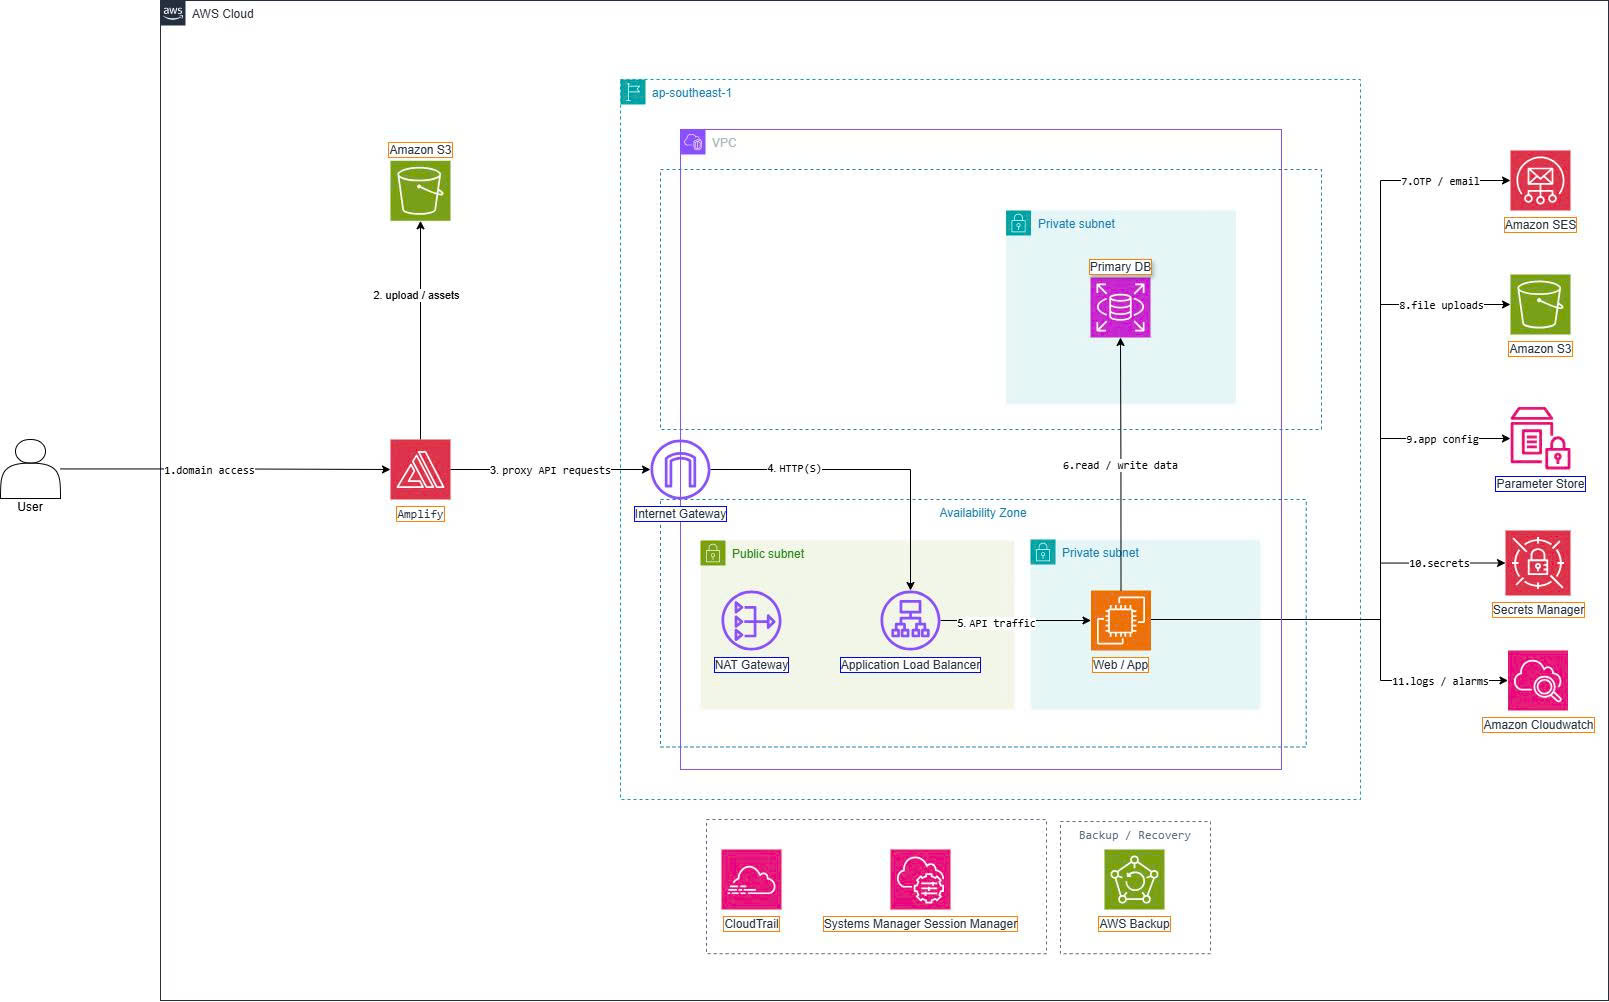
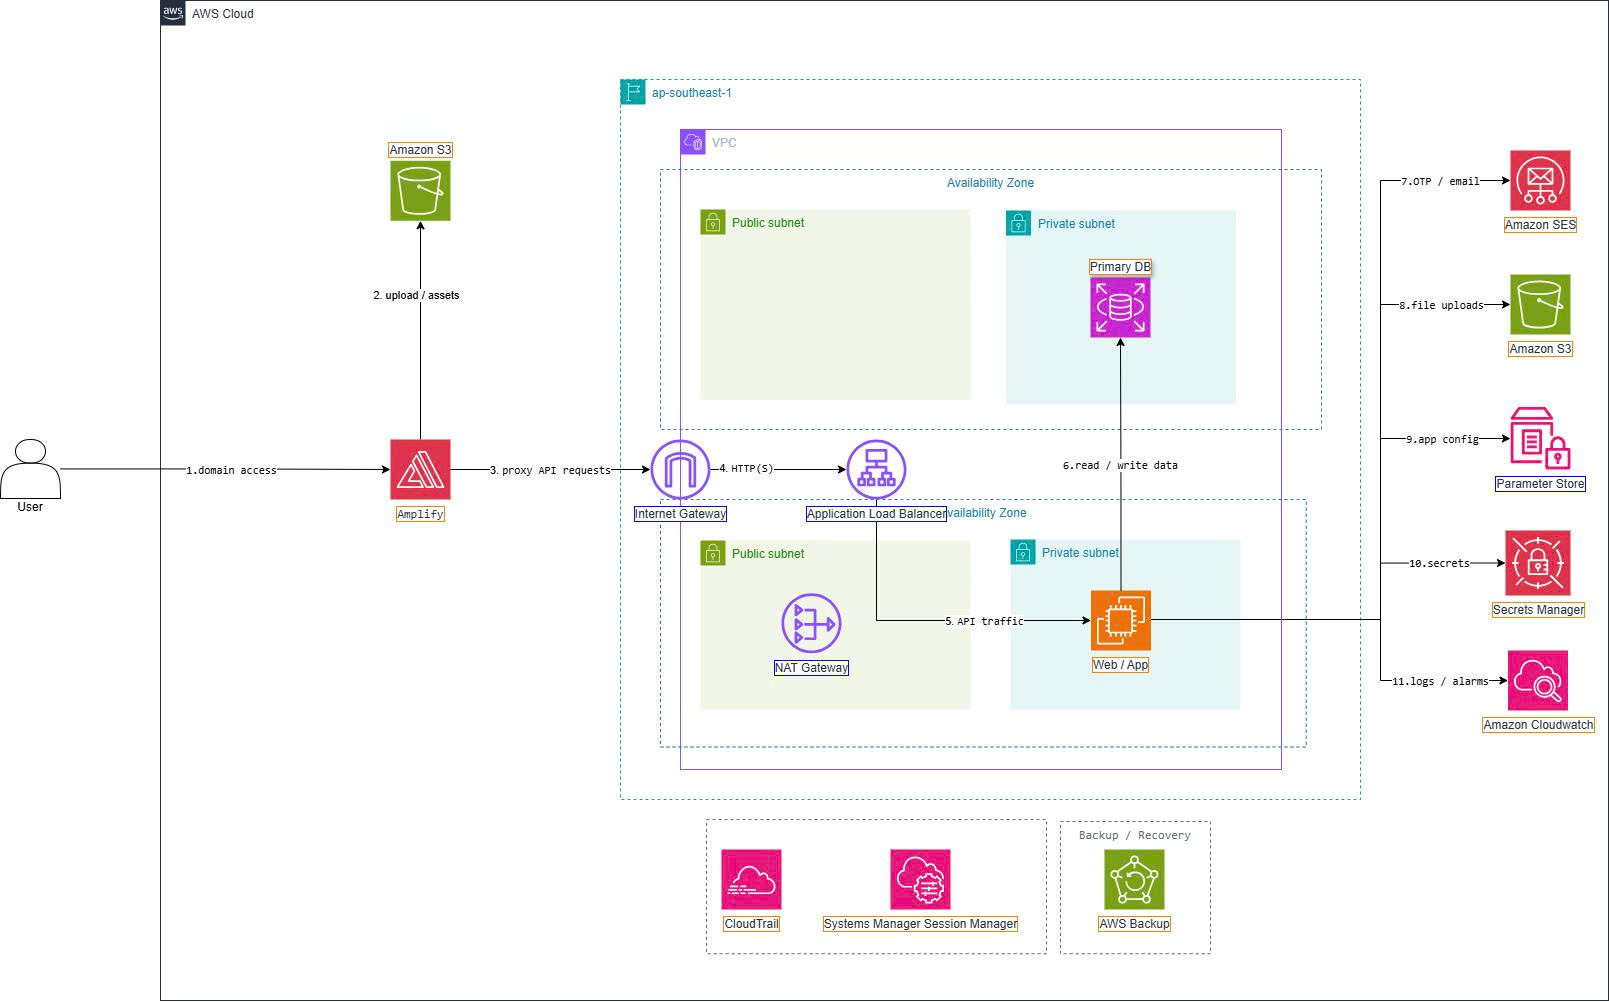
Fix workshop image ordering

diff --git a/content/5-Workshop/5.5-Frontend-Amplify/_index.md b/content/5-Workshop/5.5-Frontend-Amplify/_index.md
@@ -113,9 +113,9 @@ applications:
           - '**/*'
 ```
 
-![Amplify build settings](/eam-workshop-report/images/5-Workshop/5.5-Frontend-Amplify/5.5.6-amplify-build-settings.png)
+![Amplify build settings](/eam-workshop-report/images/5-Workshop/5.5-Frontend-Amplify/5.5.5-amplify-build-settings.png)
 
-*Figure 5.5.6. Amplify build settings with app root and output directory.*
+*Figure 5.5.5. Amplify build settings with app root and output directory.*
 
 On the build settings screen, verify that `appRoot` is `frontend`, the build command is `npm ci && npm run build`, and the output directory is `dist`.
 
@@ -139,15 +139,15 @@ npm ci && npm run build
 dist
 ```
 
-![Amplify app connected to the aws-architecture branch](/eam-workshop-report/images/5-Workshop/5.5-Frontend-Amplify/5.5.5-amplify-branch.png)
+![Amplify app connected to the aws-architecture branch](/eam-workshop-report/images/5-Workshop/5.5-Frontend-Amplify/5.5.6-amplify-branch.png)
 
-*Figure 5.5.5. Amplify app connected to the deployment branch.*
+*Figure 5.5.6. Amplify app connected to the deployment branch.*
 
 On the Amplify app screen, verify that the deployment branch is the branch that contains the latest frontend source. Amplify will automatically build and publish the frontend from this branch.
 
-![Successful Amplify deployment](/eam-workshop-report/images/5-Workshop/5.5-Frontend-Amplify/5.5.8-amplify-build-success.png)
+![Successful Amplify deployment](/eam-workshop-report/images/5-Workshop/5.5-Frontend-Amplify/5.5.7-amplify-build-success.png)
 
-*Figure 5.5.8. Successful Amplify deployment.*
+*Figure 5.5.7. Successful Amplify deployment.*
 
 When the deployment status is `Deployed`, the frontend has been built and published successfully on the Amplify domain. This is required before testing the UI and API rewrite.
 
@@ -184,9 +184,9 @@ Then keep the SPA fallback rule for React Router:
 
 If the `/api/<*>` or `/uploads/<*>` rule is in the wrong order, API and upload requests may return frontend HTML or static assets may fail with MIME type errors.
 
-![Amplify rewrite rules](/eam-workshop-report/images/5-Workshop/5.5-Frontend-Amplify/5.5.7-amplify-rewrite-rules.png)
+![Amplify rewrite rules](/eam-workshop-report/images/5-Workshop/5.5-Frontend-Amplify/5.5.8-amplify-rewrite-rules.png)
 
-*Figure 5.5.7. Amplify rewrite rules forwarding `/api/<*>` and `/uploads/<*>` to API Gateway.*
+*Figure 5.5.8. Amplify rewrite rules forwarding `/api/<*>` and `/uploads/<*>` to API Gateway.*
 
 The `/api/<*>` and `/uploads/<*>` rules should stay above the `/index.html` fallback. This order ensures API and upload requests go to API Gateway instead of being handled as frontend routes.
 

diff --git a/content/5-Workshop/5.5-Frontend-Amplify/_index.vi.md b/content/5-Workshop/5.5-Frontend-Amplify/_index.vi.md
@@ -114,9 +114,9 @@ applications:
           - '**/*'
 ```
 
-![Build settings của Amplify](/eam-workshop-report/images/5-Workshop/5.5-Frontend-Amplify/5.5.6-amplify-build-settings.png)
+![Build settings của Amplify](/eam-workshop-report/images/5-Workshop/5.5-Frontend-Amplify/5.5.5-amplify-build-settings.png)
 
-*Hình 5.5.6. Build settings của Amplify với app root và output directory.*
+*Hình 5.5.5. Build settings của Amplify với app root và output directory.*
 
 Build settings cần khớp với cấu trúc project: `appRoot` là `frontend`, build command là `npm ci && npm run build` và output directory là `dist`.
 
@@ -140,15 +140,15 @@ npm ci && npm run build
 dist
 ```
 
-![Amplify app kết nối branch aws-architecture](/eam-workshop-report/images/5-Workshop/5.5-Frontend-Amplify/5.5.5-amplify-branch.png)
+![Amplify app kết nối branch aws-architecture](/eam-workshop-report/images/5-Workshop/5.5-Frontend-Amplify/5.5.6-amplify-branch.png)
 
-*Hình 5.5.5. Amplify app kết nối đúng branch triển khai.*
+*Hình 5.5.6. Amplify app kết nối đúng branch triển khai.*
 
 Branch deploy phải là branch chứa source frontend mới nhất. Sau khi kết nối, Amplify sẽ tự động build và publish frontend theo cấu hình đã chọn.
 
-![Amplify deployment thành công](/eam-workshop-report/images/5-Workshop/5.5-Frontend-Amplify/5.5.8-amplify-build-success.png)
+![Amplify deployment thành công](/eam-workshop-report/images/5-Workshop/5.5-Frontend-Amplify/5.5.7-amplify-build-success.png)
 
-*Hình 5.5.8. Amplify deployment thành công.*
+*Hình 5.5.7. Amplify deployment thành công.*
 
 Khi deployment ở trạng thái `Deployed`, frontend đã được build và xuất bản thành công trên Amplify domain. Đây là điều kiện trước khi kiểm thử giao diện và rewrite API.
 
@@ -185,9 +185,9 @@ Sau đó giữ SPA fallback rule cho React Router:
 
 Nếu rule `/api/<*>` hoặc `/uploads/<*>` đặt sai thứ tự, request API hoặc ảnh upload có thể bị trả về HTML của frontend, gây lỗi `404`, lỗi ảnh không hiển thị hoặc static assets bị lỗi MIME type.
 
-![Rewrite rules của Amplify](/eam-workshop-report/images/5-Workshop/5.5-Frontend-Amplify/5.5.7-amplify-rewrite-rules.png)
+![Rewrite rules của Amplify](/eam-workshop-report/images/5-Workshop/5.5-Frontend-Amplify/5.5.8-amplify-rewrite-rules.png)
 
-*Hình 5.5.7. Rewrite rules của Amplify chuyển tiếp `/api/<*>` và `/uploads/<*>` đến API Gateway.*
+*Hình 5.5.8. Rewrite rules của Amplify chuyển tiếp `/api/<*>` và `/uploads/<*>` đến API Gateway.*
 
 Hai rule `/api/<*>` và `/uploads/<*>` phải nằm phía trên rule fallback `/index.html`. Thứ tự này đảm bảo request API và file upload đi đến API Gateway thay vì bị React Router xử lý như route frontend.
 

diff --git a/content/5-Workshop/5.4-Backend-Elastic-Beanstalk/_index.md b/content/5-Workshop/5.4-Backend-Elastic-Beanstalk/_index.md
@@ -111,9 +111,9 @@ FRONTEND_ORIGINS=https://<amplify-domain>
 
 `FRONTEND_ORIGIN` and `FRONTEND_ORIGINS` can be updated after Amplify creates the frontend URL.
 
-![Elastic Beanstalk environment properties](/eam-workshop-report/images/5-Workshop/5.4-Backend-Elastic-Beanstalk/5.4.4-eb-env-properties.png)
+![Elastic Beanstalk environment properties](/eam-workshop-report/images/5-Workshop/5.4-Backend-Elastic-Beanstalk/5.4.3-eb-env-properties.png)
 
-*Figure 5.4.4. Elastic Beanstalk environment properties with sensitive values hidden.*
+*Figure 5.4.3. Elastic Beanstalk environment properties with sensitive values hidden.*
 
 Important variables to verify include `DATABASE_URL`, `JWT_SECRET`, `MAIL_HOST`, `MAIL_USER`, `MAIL_PASSWORD`, `FRONTEND_ORIGIN`, and `PORT=8080`. Hide secrets before including the screenshot in the report.
 
@@ -137,9 +137,9 @@ Expected response:
 }
 ```
 
-![Elastic Beanstalk environment in OK status](/eam-workshop-report/images/5-Workshop/5.4-Backend-Elastic-Beanstalk/5.4.3-eb-health-ok.png)
+![Elastic Beanstalk environment in OK status](/eam-workshop-report/images/5-Workshop/5.4-Backend-Elastic-Beanstalk/5.4.4-eb-health-ok.png)
 
-*Figure 5.4.3. Elastic Beanstalk environment in OK status.*
+*Figure 5.4.4. Elastic Beanstalk environment in OK status.*
 
 This screen should show the environment health as OK. It indicates that Elastic Beanstalk has provisioned the resources and the backend has no critical startup failure.
 

diff --git a/content/5-Workshop/5.4-Backend-Elastic-Beanstalk/_index.vi.md b/content/5-Workshop/5.4-Backend-Elastic-Beanstalk/_index.vi.md
@@ -111,9 +111,9 @@ FRONTEND_ORIGINS=https://<amplify-domain>
 
 `FRONTEND_ORIGIN` và `FRONTEND_ORIGINS` có thể cập nhật sau khi Amplify tạo URL frontend.
 
-![Environment properties của Elastic Beanstalk](/eam-workshop-report/images/5-Workshop/5.4-Backend-Elastic-Beanstalk/5.4.4-eb-env-properties.png)
+![Environment properties của Elastic Beanstalk](/eam-workshop-report/images/5-Workshop/5.4-Backend-Elastic-Beanstalk/5.4.3-eb-env-properties.png)
 
-*Hình 5.4.4. Environment properties của Elastic Beanstalk sau khi che thông tin nhạy cảm.*
+*Hình 5.4.3. Environment properties của Elastic Beanstalk sau khi che thông tin nhạy cảm.*
 
 Các biến quan trọng cần được kiểm tra gồm `DATABASE_URL`, `JWT_SECRET`, `MAIL_HOST`, `MAIL_USER`, `MAIL_PASSWORD`, `FRONTEND_ORIGIN` và `PORT=8080`. Khi đưa vào báo cáo, các secret phải được che để tránh lộ thông tin nhạy cảm.
 
@@ -137,9 +137,9 @@ Kết quả mong đợi:
 }
 ```
 
-![Elastic Beanstalk environment ở trạng thái OK](/eam-workshop-report/images/5-Workshop/5.4-Backend-Elastic-Beanstalk/5.4.3-eb-health-ok.png)
+![Elastic Beanstalk environment ở trạng thái OK](/eam-workshop-report/images/5-Workshop/5.4-Backend-Elastic-Beanstalk/5.4.4-eb-health-ok.png)
 
-*Hình 5.4.3. Elastic Beanstalk environment ở trạng thái OK.*
+*Hình 5.4.4. Elastic Beanstalk environment ở trạng thái OK.*
 
 Màn hình này cần hiển thị environment health ở trạng thái OK. Đây là dấu hiệu Elastic Beanstalk đã provision tài nguyên và backend không gặp lỗi startup nghiêm trọng.
 